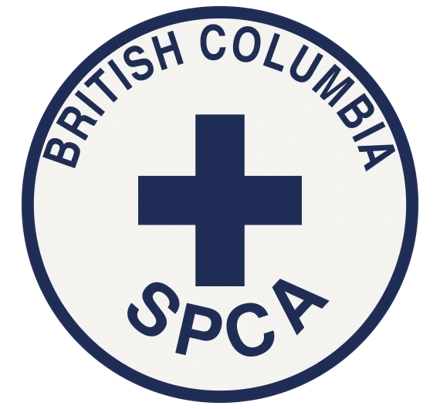
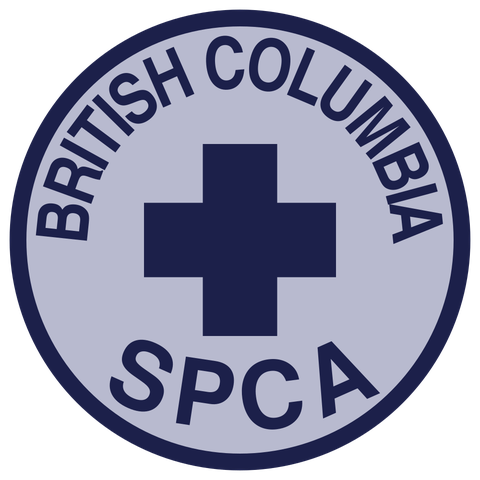
Refine S56-O38 SPCA roundel from the supplied reference
Reconstruct the rim and cross geometrically, enlarge and redistribute the upper title, and flatten the lower SPCA lettering. Keep the old atlas lettering source and the 66 by 55 reference with an editable geometry recipe, transparent render, comparison and aligned overlays.

Register the SVG as a supplied replacement so atlas imports preserve it. Regenerate its thumbnail and manifest provenance while retaining every other patch, including the current Predator Branch reconstruction.

Validated with all 168 library source/hash checks, PofBC patch integration tests, and the Patcher TypeScript/Vite build.

diff --git a/library/supplied/bc-spca-roundel/render_review.py b/library/supplied/bc-spca-roundel/render_review.py
@@ -1,0 +1,115 @@
+#!/usr/bin/env python3
+"""Render the vector, preview and visual checks. Requires Inkscape and Pillow.
+
+Run compose.mjs first. The photograph is used only in the review images; it is
+never embedded in the patch SVG. Temporary renders stay outside the repository.
+"""
+
+from pathlib import Path
+import shutil
+import subprocess
+import tempfile
+
+from PIL import Image, ImageChops, ImageDraw, ImageFont
+
+
+HERE = Path(__file__).resolve().parent
+REFERENCE = Image.open(HERE / "source/reference.jpeg").convert("RGBA")
+
+
+def font(size):
+    for name in (
+        "/usr/share/fonts/truetype/dejavu/DejaVuSans.ttf",
+        "/System/Library/Fonts/Supplemental/Arial.ttf",
+    ):
+        if Path(name).exists():
+            return ImageFont.truetype(name, size)
+    return ImageFont.load_default(size=size)
+
+
+def render(svg, output, size=1000):
+    subprocess.run([
+        shutil.which("inkscape") or "inkscape", str(svg),
+        "--export-type=png", f"--export-filename={output}",
+        f"--export-width={size}", f"--export-height={size}",
+    ], check=True, capture_output=True)
+    return Image.open(output).convert("RGBA")
+
+
+def on_background(im, size, colour="#f4f5f7"):
+    canvas = Image.new("RGBA", size, colour)
+    canvas.alpha_composite(im, ((size[0] - im.width) // 2, (size[1] - im.height) // 2))
+    return canvas.convert("RGB")
+
+
+def photo_fit(im, factor=10):
+    # One common affine fit to the sewn rim, used for BOTH old and revised vectors.
+    # Source pixel coordinates: centre (30.5, 23.0), radii (25.7, 24.4).
+    # This normalizes mild photographic flattening; there is no local warping.
+    width, height = 2 * 25.7 / 0.96, 2 * 24.4 / 0.96
+    x, y = 30.5 - width / 2, 23.0 - height / 2
+    canvas = Image.new("RGBA", (66 * factor, 55 * factor))
+    scaled = im.resize((round(width * factor), round(height * factor)), Image.Resampling.LANCZOS)
+    canvas.alpha_composite(scaled, (round(x * factor), round(y * factor)))
+    return canvas
+
+
+def overlay(im):
+    fitted = photo_fit(im)
+    # Show only the dark ink in cyan, retaining the original pixels underneath.
+    mask = fitted.convert("L").point(lambda value: 150 if value < 100 else 0)
+    mask = ImageChops.multiply(mask, fitted.getchannel("A"))
+    cyan = Image.new("RGBA", fitted.size, "#00e8df")
+    cyan.putalpha(mask)
+    ref = REFERENCE.resize(fitted.size, Image.Resampling.NEAREST)
+    return Image.alpha_composite(ref, cyan)
+
+
+with tempfile.TemporaryDirectory(prefix="spca-review-") as tmp:
+    tmp = Path(tmp)
+    # Remove the atlas photo-crop padding, retaining its original 100-unit master.
+    previous_svg = (HERE / "source/atlas-S56-O38.svg").read_text()
+    previous_svg = previous_svg.replace('viewBox="0 0 57 53"', 'viewBox="2 0 53 53"')
+    (tmp / "previous.svg").write_text(previous_svg)
+    previous = render(tmp / "previous.svg", tmp / "previous.png")
+    revised = render(HERE / "composed/S56-O38.svg", tmp / "revised.png")
+
+    revised.save(HERE / "S56-O38.png", optimize=True)
+    revised.resize((480, 480), Image.Resampling.LANCZOS).save(HERE / "preview.webp", lossless=True)
+
+    sheet = Image.new("RGB", (1512, 650), "#f4f5f7")
+    draw = ImageDraw.Draw(sheet)
+    draw.text((32, 25), "BC SPCA / S56-O38", fill="#142039", font=font(28))
+    draw.text((32, 65), "Reference-based vector reconstruction", fill="#586174", font=font(18))
+    # Crop away excess surrounding cloth for a comparable patch width. Preserve the
+    # photographed aspect ratio, and align its measured centre with the vector panels.
+    ref_panel = Image.new("RGBA", (462, 462), "#f4f5f7")
+    ref_crop = REFERENCE.crop((3, 0, 58, 50)).resize((462, 420), Image.Resampling.NEAREST)
+    ref_panel.alpha_composite(ref_crop, (0, 38))
+    panels = [
+        ("Supplied photograph", ref_panel,
+         "Crop of 66 x 55 original; no sharpening"),
+        ("Previous reconstruction", previous.resize((462, 462), Image.Resampling.LANCZOS),
+         "Thin cross; short title; steep lower lettering"),
+        ("Revised reconstruction", revised.resize((462, 462), Image.Resampling.LANCZOS),
+         "Heavier cross; taller title; shallow SPCA arc"),
+    ]
+    for i, (title, im, detail) in enumerate(panels):
+        x = 24 + 500 * i
+        draw.text((x + 8, 106), title, fill="#142039", font=font(23))
+        sheet.paste(on_background(im, (462, 462)), (x + 8, 145))
+        draw.text((x + 8, 609), detail, fill="#586174", font=font(16))
+    sheet.save(HERE / "S56-O38-comparison.png", optimize=True)
+
+    overlays = Image.new("RGB", (1380, 696), "#f4f5f7")
+    draw = ImageDraw.Draw(overlays)
+    draw.text((26, 23), "Photo alignment / cyan shows reconstructed ink", fill="#142039", font=font(25))
+    draw.text((26, 60), "One whole-badge affine fit; no local warping. The top of the reference is cropped.",
+              fill="#586174", font=font(18))
+    for i, (title, im) in enumerate([("Previous", previous), ("Revised", revised)]):
+        x = 20 + 680 * i
+        draw.text((x, 94), title, fill="#142039", font=font(22))
+        overlays.paste(overlay(im).convert("RGB"), (x, 126))
+    overlays.save(HERE / "S56-O38-overlay.png", optimize=True)
+
+print("Rendered SVG preview, transparent PNG, before/after comparison and alignment overlays.")

diff --git a/library/supplied/bc-spca-roundel/README.md b/library/supplied/bc-spca-roundel/README.md
@@ -1,0 +1,63 @@
+# British Columbia / SPCA roundel — S56-O38
+
+Geometric reconstruction fitted to the **66 × 55 pixel photograph supplied on 22 October 2026**.
+The supplied image is retained unchanged as `source/reference.jpeg`. Its small size supports the
+composition and approximate proportions, but cannot establish the original typeface, calibrated
+thread colours, exact stitch detail or physical dimensions.
+
+![Reference, previous reconstruction and revised drawing](S56-O38-comparison.png)
+
+## What changed
+
+All dimensions below are drawing units on a 100 × 100 canvas, not millimetres.
+
+| Component | Construction | Reason |
+|---|---|---|
+| Rim and field | Concentric circles, outer radius 48 and inner radius 44.5 | Keeps a clean circular patch and a constant 3.5-unit rim; omits the photograph's cloth bulge at lower right |
+| Cross | One closed equal-arm polygon, 40 × 40 overall, 15.5-unit bars, centred at (50, 50) | The previous 12-unit bars were too thin; the square cross also puts its top closer to the reference |
+| BRITISH COLUMBIA | 10.7-unit capitals on a radius-31.7 upper baseline; first/last letter centres at −84°/+84° | Taller lettering, extending farther down both sides than the earlier approximately ±71° layout |
+| SPCA | 14-unit capitals on a radius-57 lower baseline, with its bottom at y = 89.5; outer letters rotated ±24° | A wider, shallower word, replacing the earlier roughly +41°/−47° end rotations |
+| Colours | Navy `#1c204a`; cool grey `#b8bacf` | A flat interpretation of the photographed cloth and ink, replacing the warm cream field |
+
+The letters reuse the atlas reconstruction's **substitute glyph outlines**, individually resized,
+spaced by their advances and rotated along the new arcs. This is not a recovered historical font.
+`source/atlas-S56-O38.svg` records the unchanged prior drawing and makes the lettering source and
+before/after comparison reproducible. The original atlas SHA-256 is
[1 lines of base64/hex data omitted]
+
+The new drawing uses **22 filled paths**: two circles, one cross and 19 letters. It has no live text,
+font dependencies, embedded photograph, tracing contours, filters or embroidery texture.
+
+## Rebuild
+
+From the Patcher repository root:
+
+```sh
+node library/supplied/bc-spca-roundel/compose.mjs
+python3 library/supplied/bc-spca-roundel/render_review.py
+npm run library:import
+npm run library:verify -- --source
+```
+
+`compose.mjs` needs only Node. `geometry.json` is the editable drawing recipe; changing it and
+running the composer rebuilds `composed/S56-O38.svg` without a font or network request.
+
+The review renderer needs **Inkscape and Pillow**. It produces the transparent `S56-O38.png`, the
+480-pixel `preview.webp`, the comparison sheet and the overlay sheet. The library importer copies the
+declared SVG and thumbnail to the existing `bc-spca/S56-O38` asset paths, updates the manifest and
+preserves the atlas hash as replacement provenance. Its `replace` rule in `library/orgs.json` keeps the
+improvement through future imports, while preserving the existing patch ID and deep link.
+
+## Visual check and limitations
+
+![Prior and revised ink over the supplied photograph](S56-O38-overlay.png)
+
+The overlays use the same **single whole-badge affine fit** for both drawings: source-pixel centre
+(30.5, 23.0) and radii (25.7, 24.4). This accounts for the photograph's slight flattening and cropped
+top; letters and cross are not locally warped to force agreement. Cyan denotes reconstructed ink.
+The photograph is enlarged with nearest-neighbour sampling, without sharpening or synthesized detail.
+
+The heavier cross, taller title and flatter lower lettering improve the visible composition. Remaining
+small differences are comparable to individual source pixels and do not justify encoding arbitrary
+cloth distortion into the geometry. These files are a documented reconstruction, not authenticated
+issue artwork or a claim of an exact pixel match.

diff --git a/library/README.md b/library/README.md
@@ -117,6 +117,7 @@ preview, quality line and limitations:
 | MC30-O01 Conservation Officer / BC Environment | `supplied/bc-co-environment-flag/`: the atlas shield with the waving flag of PofBC's BC Parks flag badge beside BC (`compose.mjs`) |
 | MC09-O02, MC13-O02 Division flashes | `supplied/moosecop-division-flash/`: the regular felt flash's rocker merged with a box, the outline their exact union, with the atlas's lettering (`compose.mjs`) |
 | S48-O01 Forest Service evergreen emblem, cloth square | `supplied/forest-service-emblem-square/`: PofBC's Forest Service evergreen emblem in the atlas's thread colours (`compose.mjs`) |
+| S56-O38 British Columbia / SPCA roundel | `supplied/bc-spca-roundel/`: concentric circles, a heavier equal-arm cross and re-spaced atlas letter outlines fitted to a supplied 66 × 55 photograph (`compose.mjs`) |
 | S56-O43 Fire Commissioner | `supplied/fire-commissioner-badge/`: a supplied scalloped-shield shape study as the outline, with the atlas's arms and lettering (`compose.mjs`) |
 | MC03-O01 B.C. Game Department / Predator Branch | `supplied/bc-predator-branch/`: a supplied vector package, used whole, which reads the captions the atlas left out |
 
